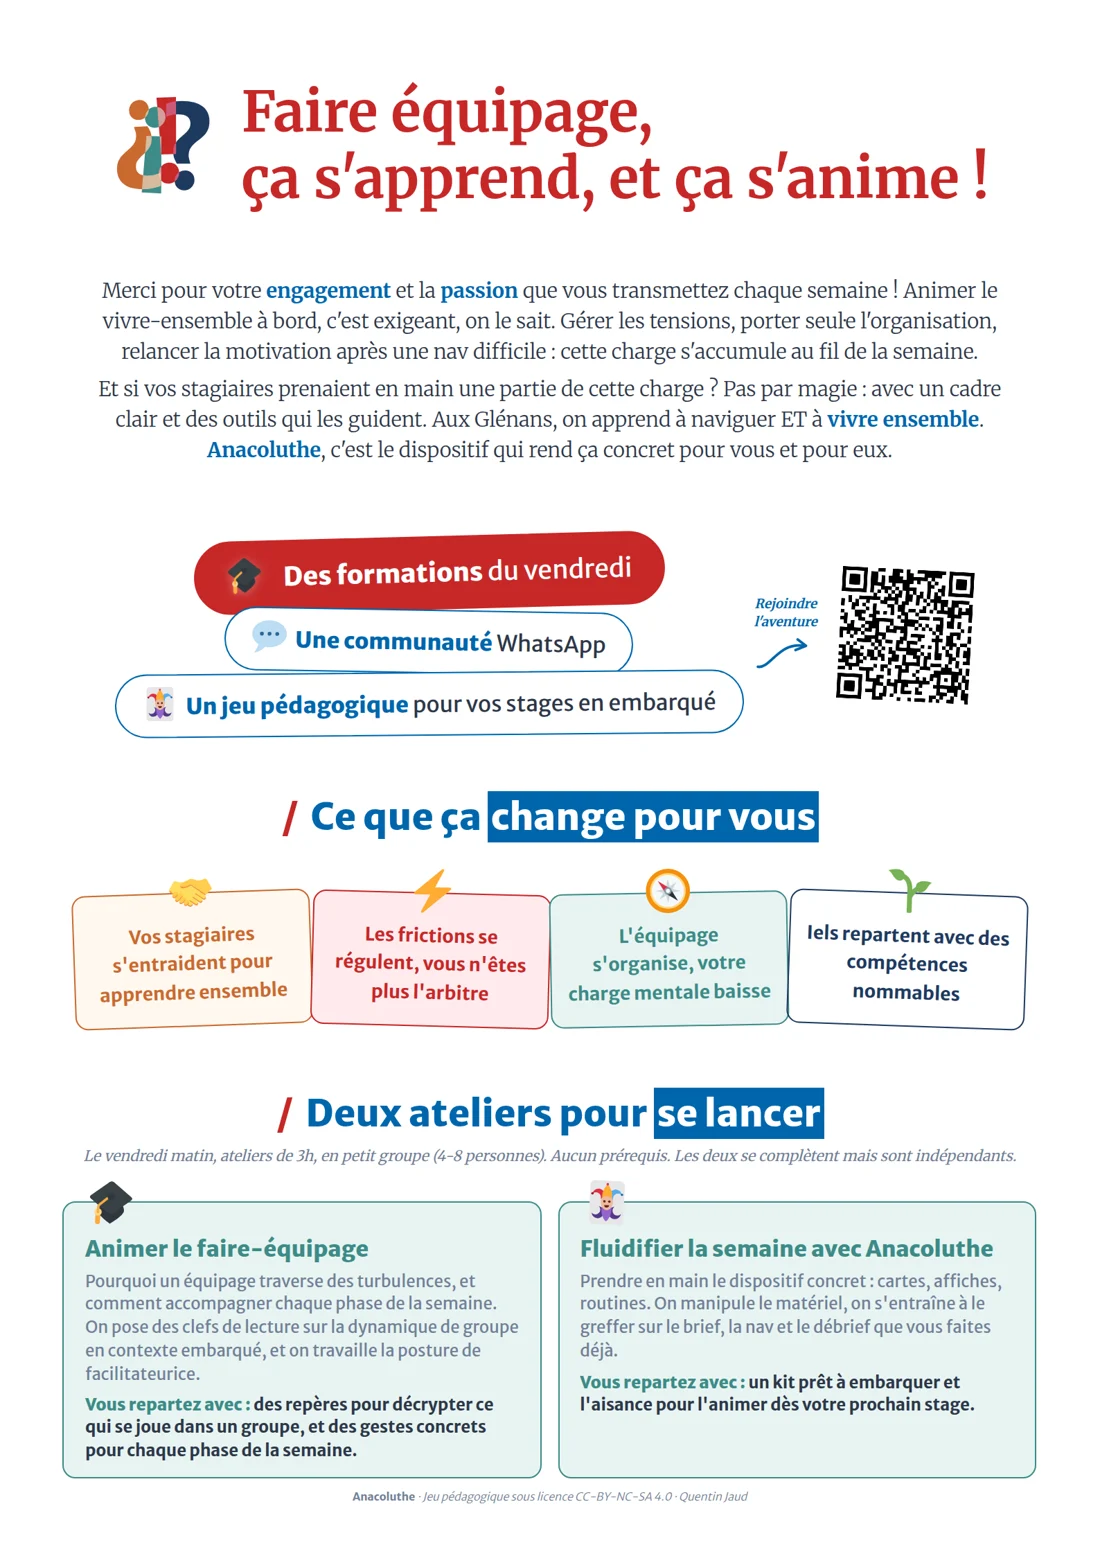
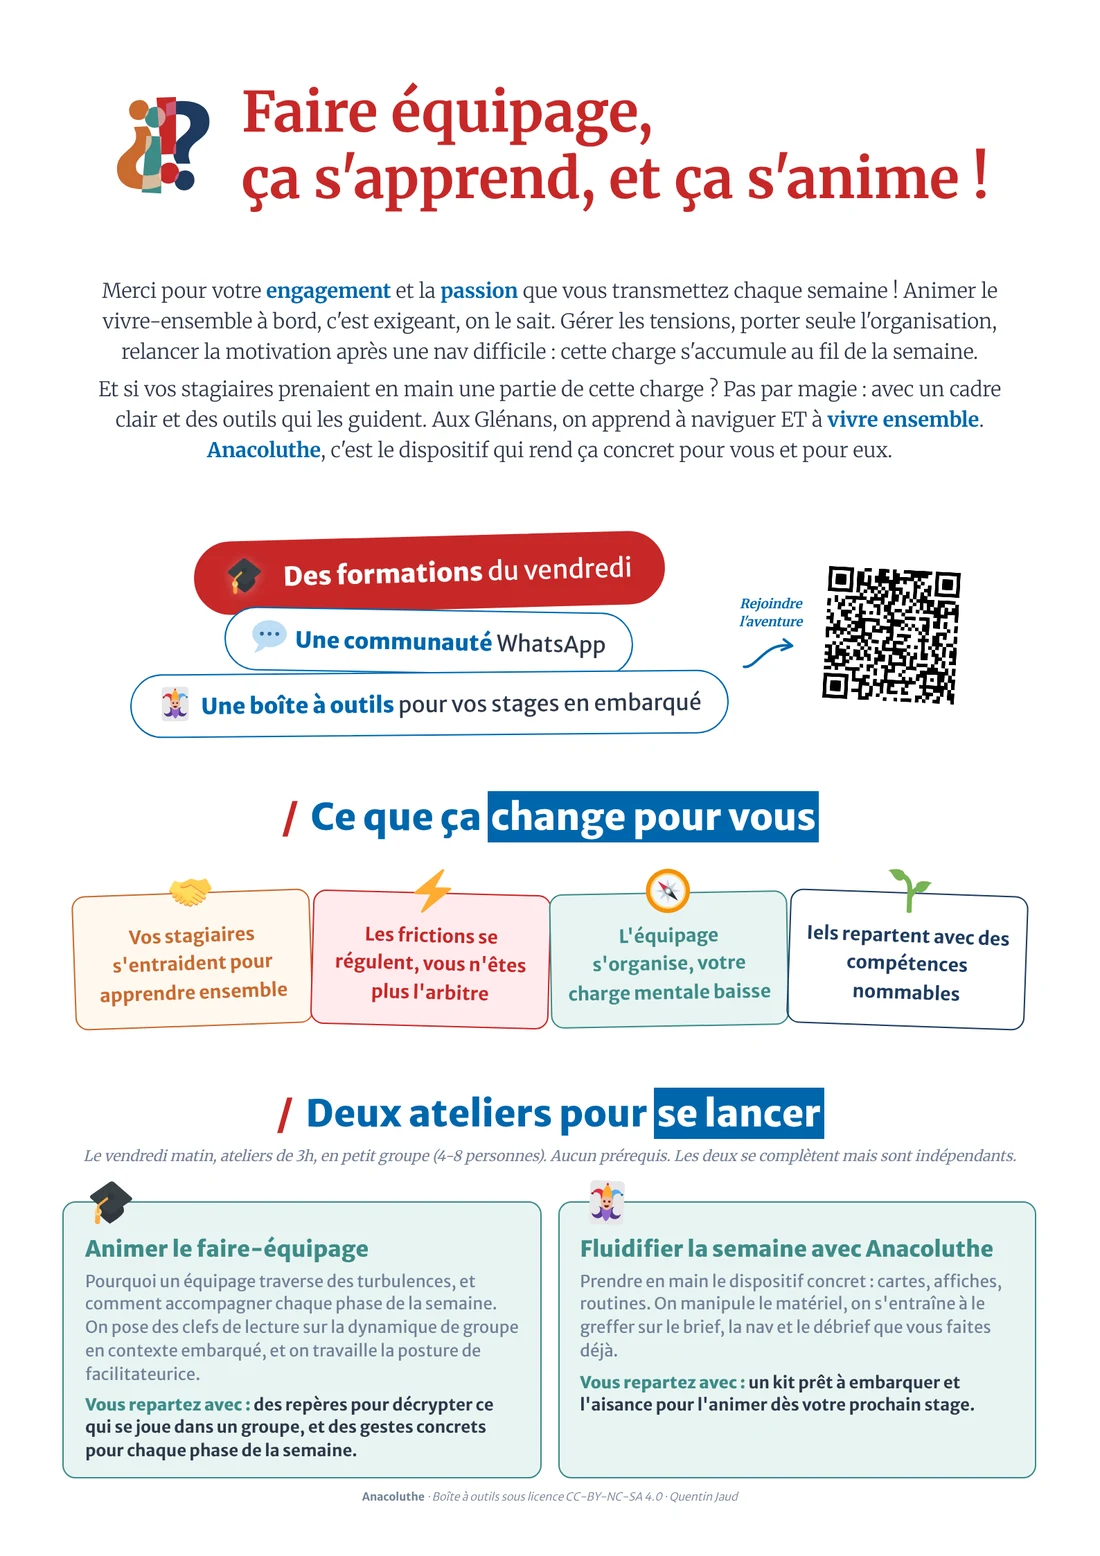
Affiche promo : « boîte à outils » au lieu de « jeu pédagogique », visuel de l'écran 15 mis à jour
Claude-Session: https://claude.ai/code/session_01MULeTti12Qj1aBp3SNVQco

diff --git a/soutenance.html b/soutenance.html
@@ -498,7 +498,7 @@
       </ul>
     </div>
     <div class="vis-a-vis">
-      <img class="photo-posee" src="assets/images/soutenance/affiche-com-promo.webp" alt="Affiche « Faire équipage, ça s'apprend, et ça s'anime ! » : les formations du vendredi, la communauté WhatsApp et le jeu pédagogique, ce que ça change pour les moniteurices, deux ateliers pour se lancer">
+      <img class="photo-posee" src="assets/images/soutenance/affiche-com-promo.webp" alt="Affiche « Faire équipage, ça s'apprend, et ça s'anime ! » : les formations du vendredi, la communauté WhatsApp et la boîte à outils, ce que ça change pour les moniteurices, deux ateliers pour se lancer">
       <img class="photo-posee" src="assets/images/soutenance/affiche-com-haddock.webp" alt="Affiche « Échelle de Haddock » : de 0, calme plat, à 9, retour au calme, l'état de l'équipage au fil des cinq phases de Tuckman, formation, turbulence, structuration, coopération, dissolution">
     </div>
   </div>

diff --git a/promo/affiche-promo.html b/promo/affiche-promo.html
@@ -426,7 +426,7 @@
                 </div>
                 <div class="promo-pilier">
                     <span class="promo-pilier-emoji">🃏</span>
-                    <span class="promo-pilier-text"><strong>Un jeu pédagogique</strong> pour vos stages en embarqué</span>
+                    <span class="promo-pilier-text"><strong>Une boîte à outils</strong> pour vos stages en embarqué</span>
                 </div>
             </div>
             <div class="promo-qr-bridge">
@@ -502,7 +502,7 @@
          8. FOOTER
          ======================================== -->
     <footer class="promo-footer">
-        <span><strong>Anacoluthe</strong> · Jeu pédagogique sous licence CC-BY-NC-SA 4.0 · Quentin Jaud</span>
+        <span><strong>Anacoluthe</strong> · Boîte à outils sous licence CC-BY-NC-SA 4.0 · Quentin Jaud</span>
     </footer>
 
 </div>
